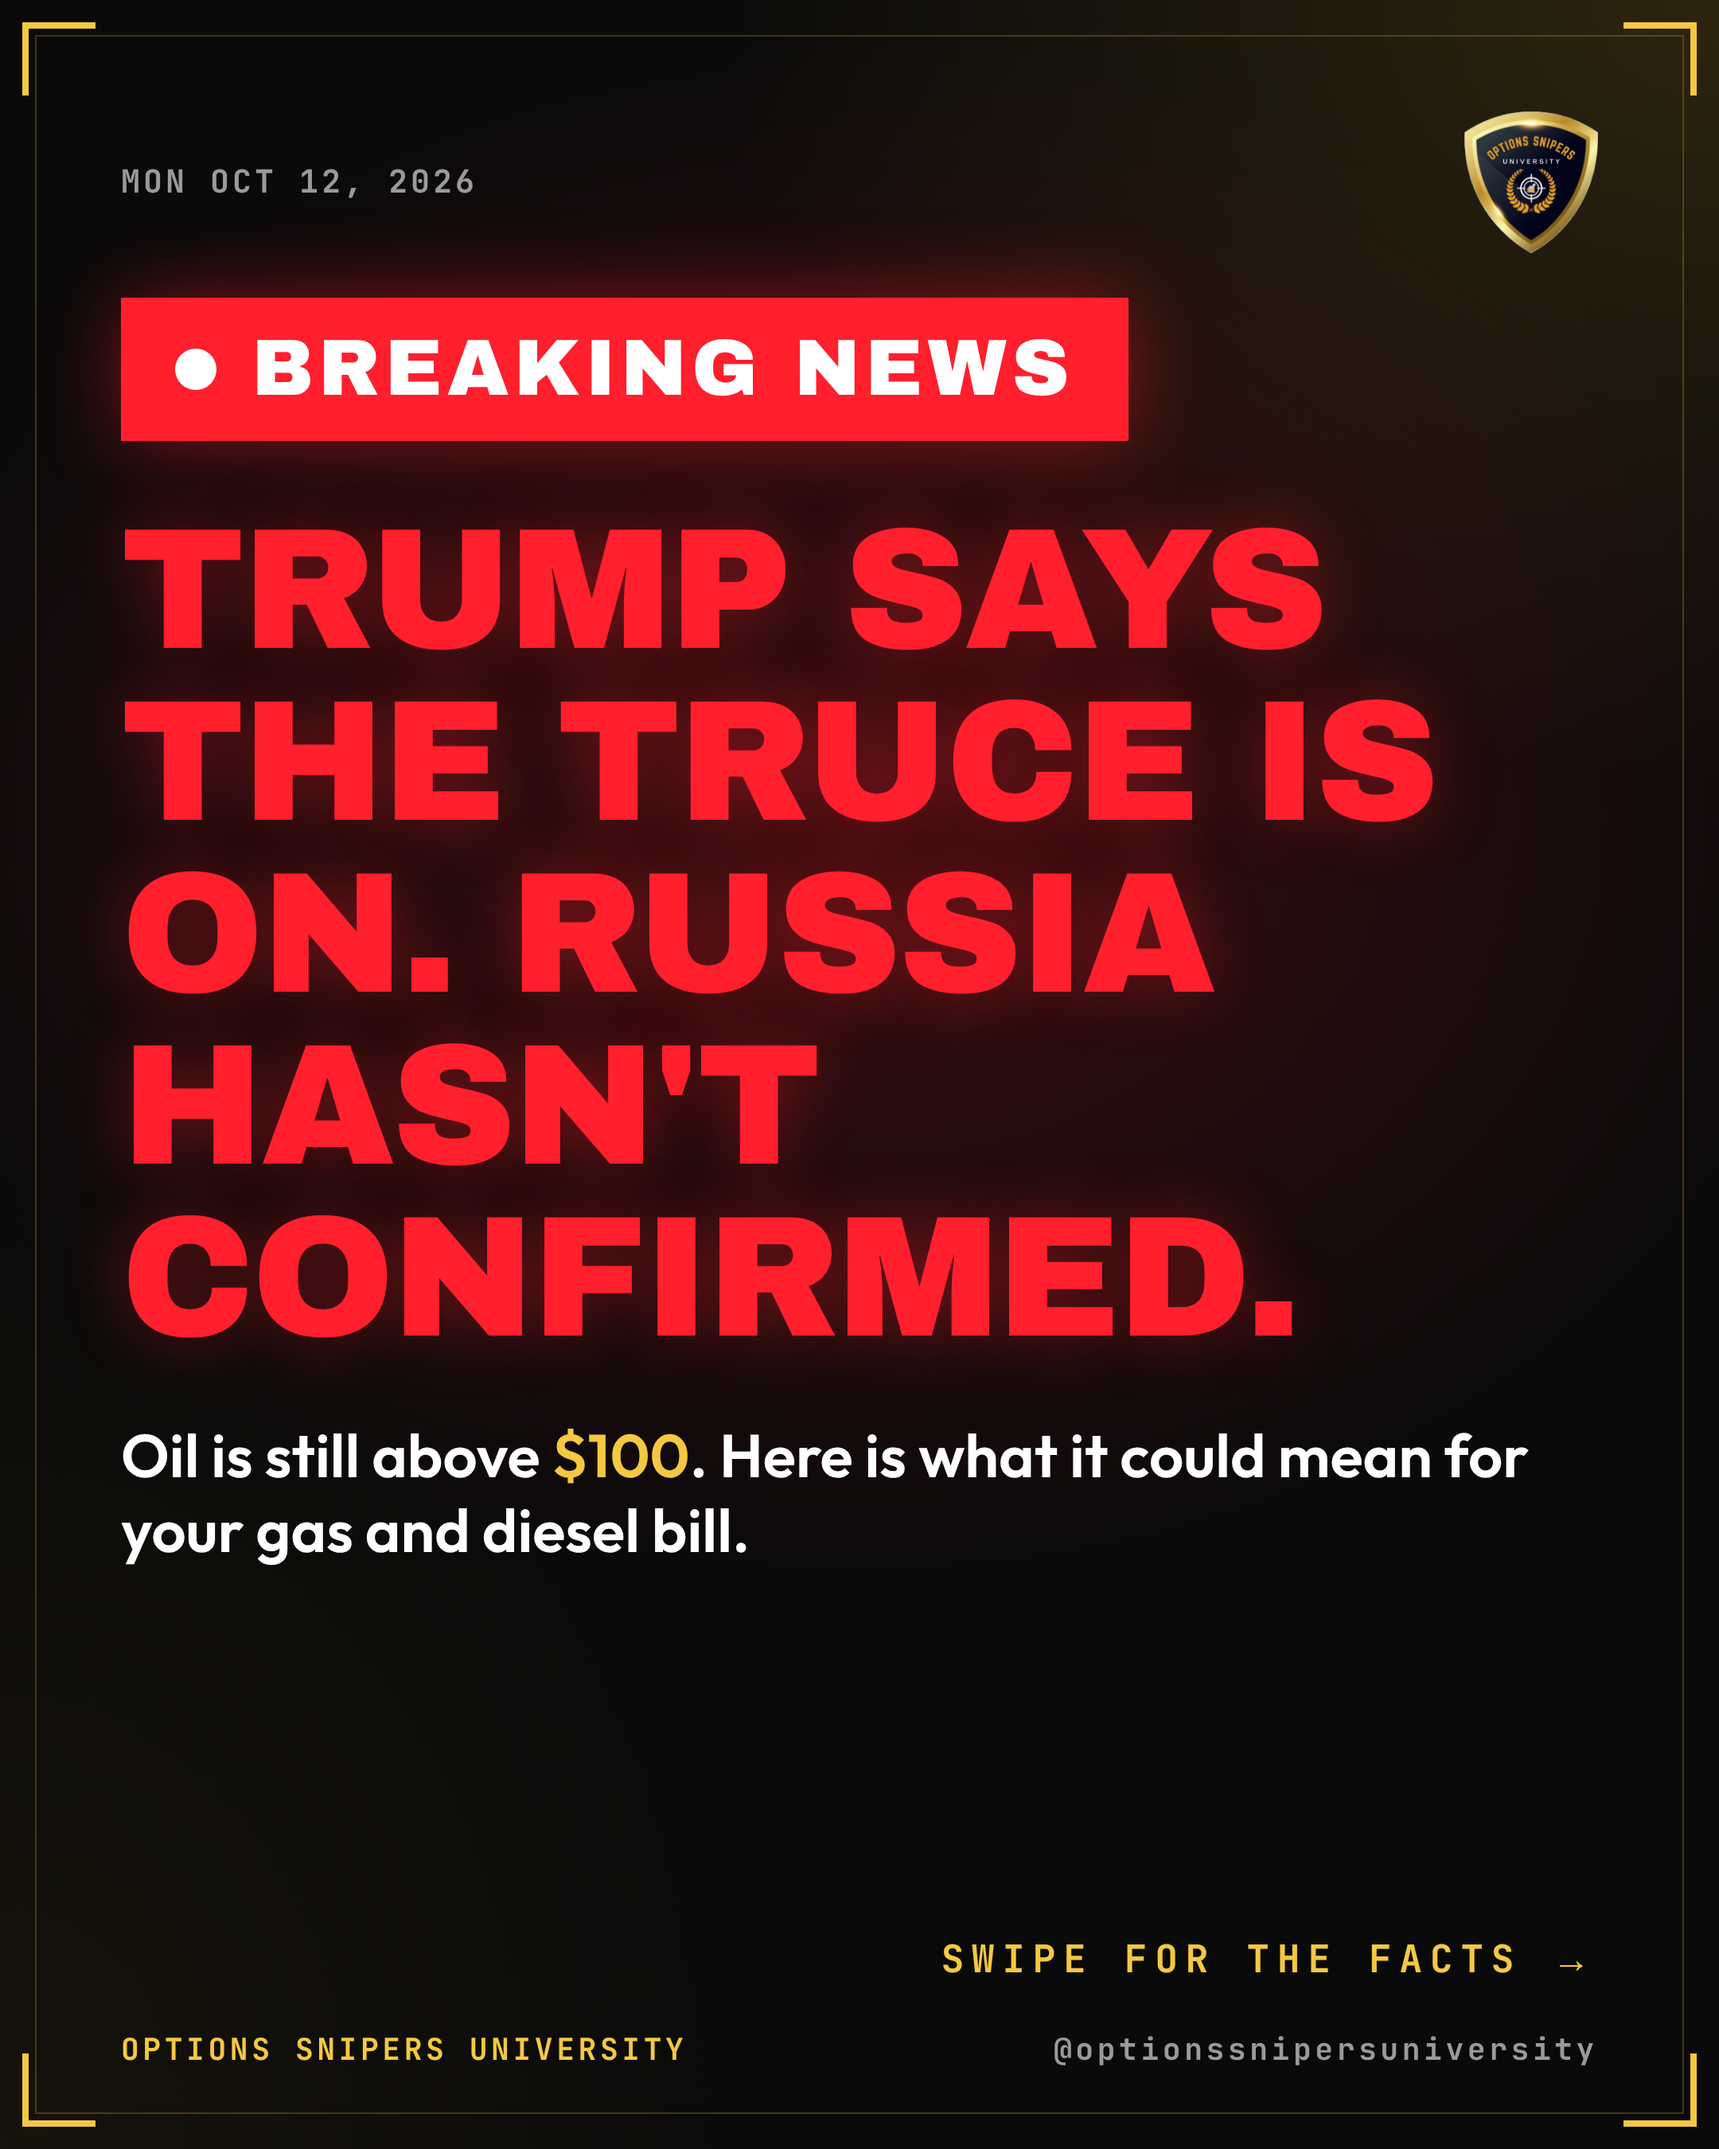
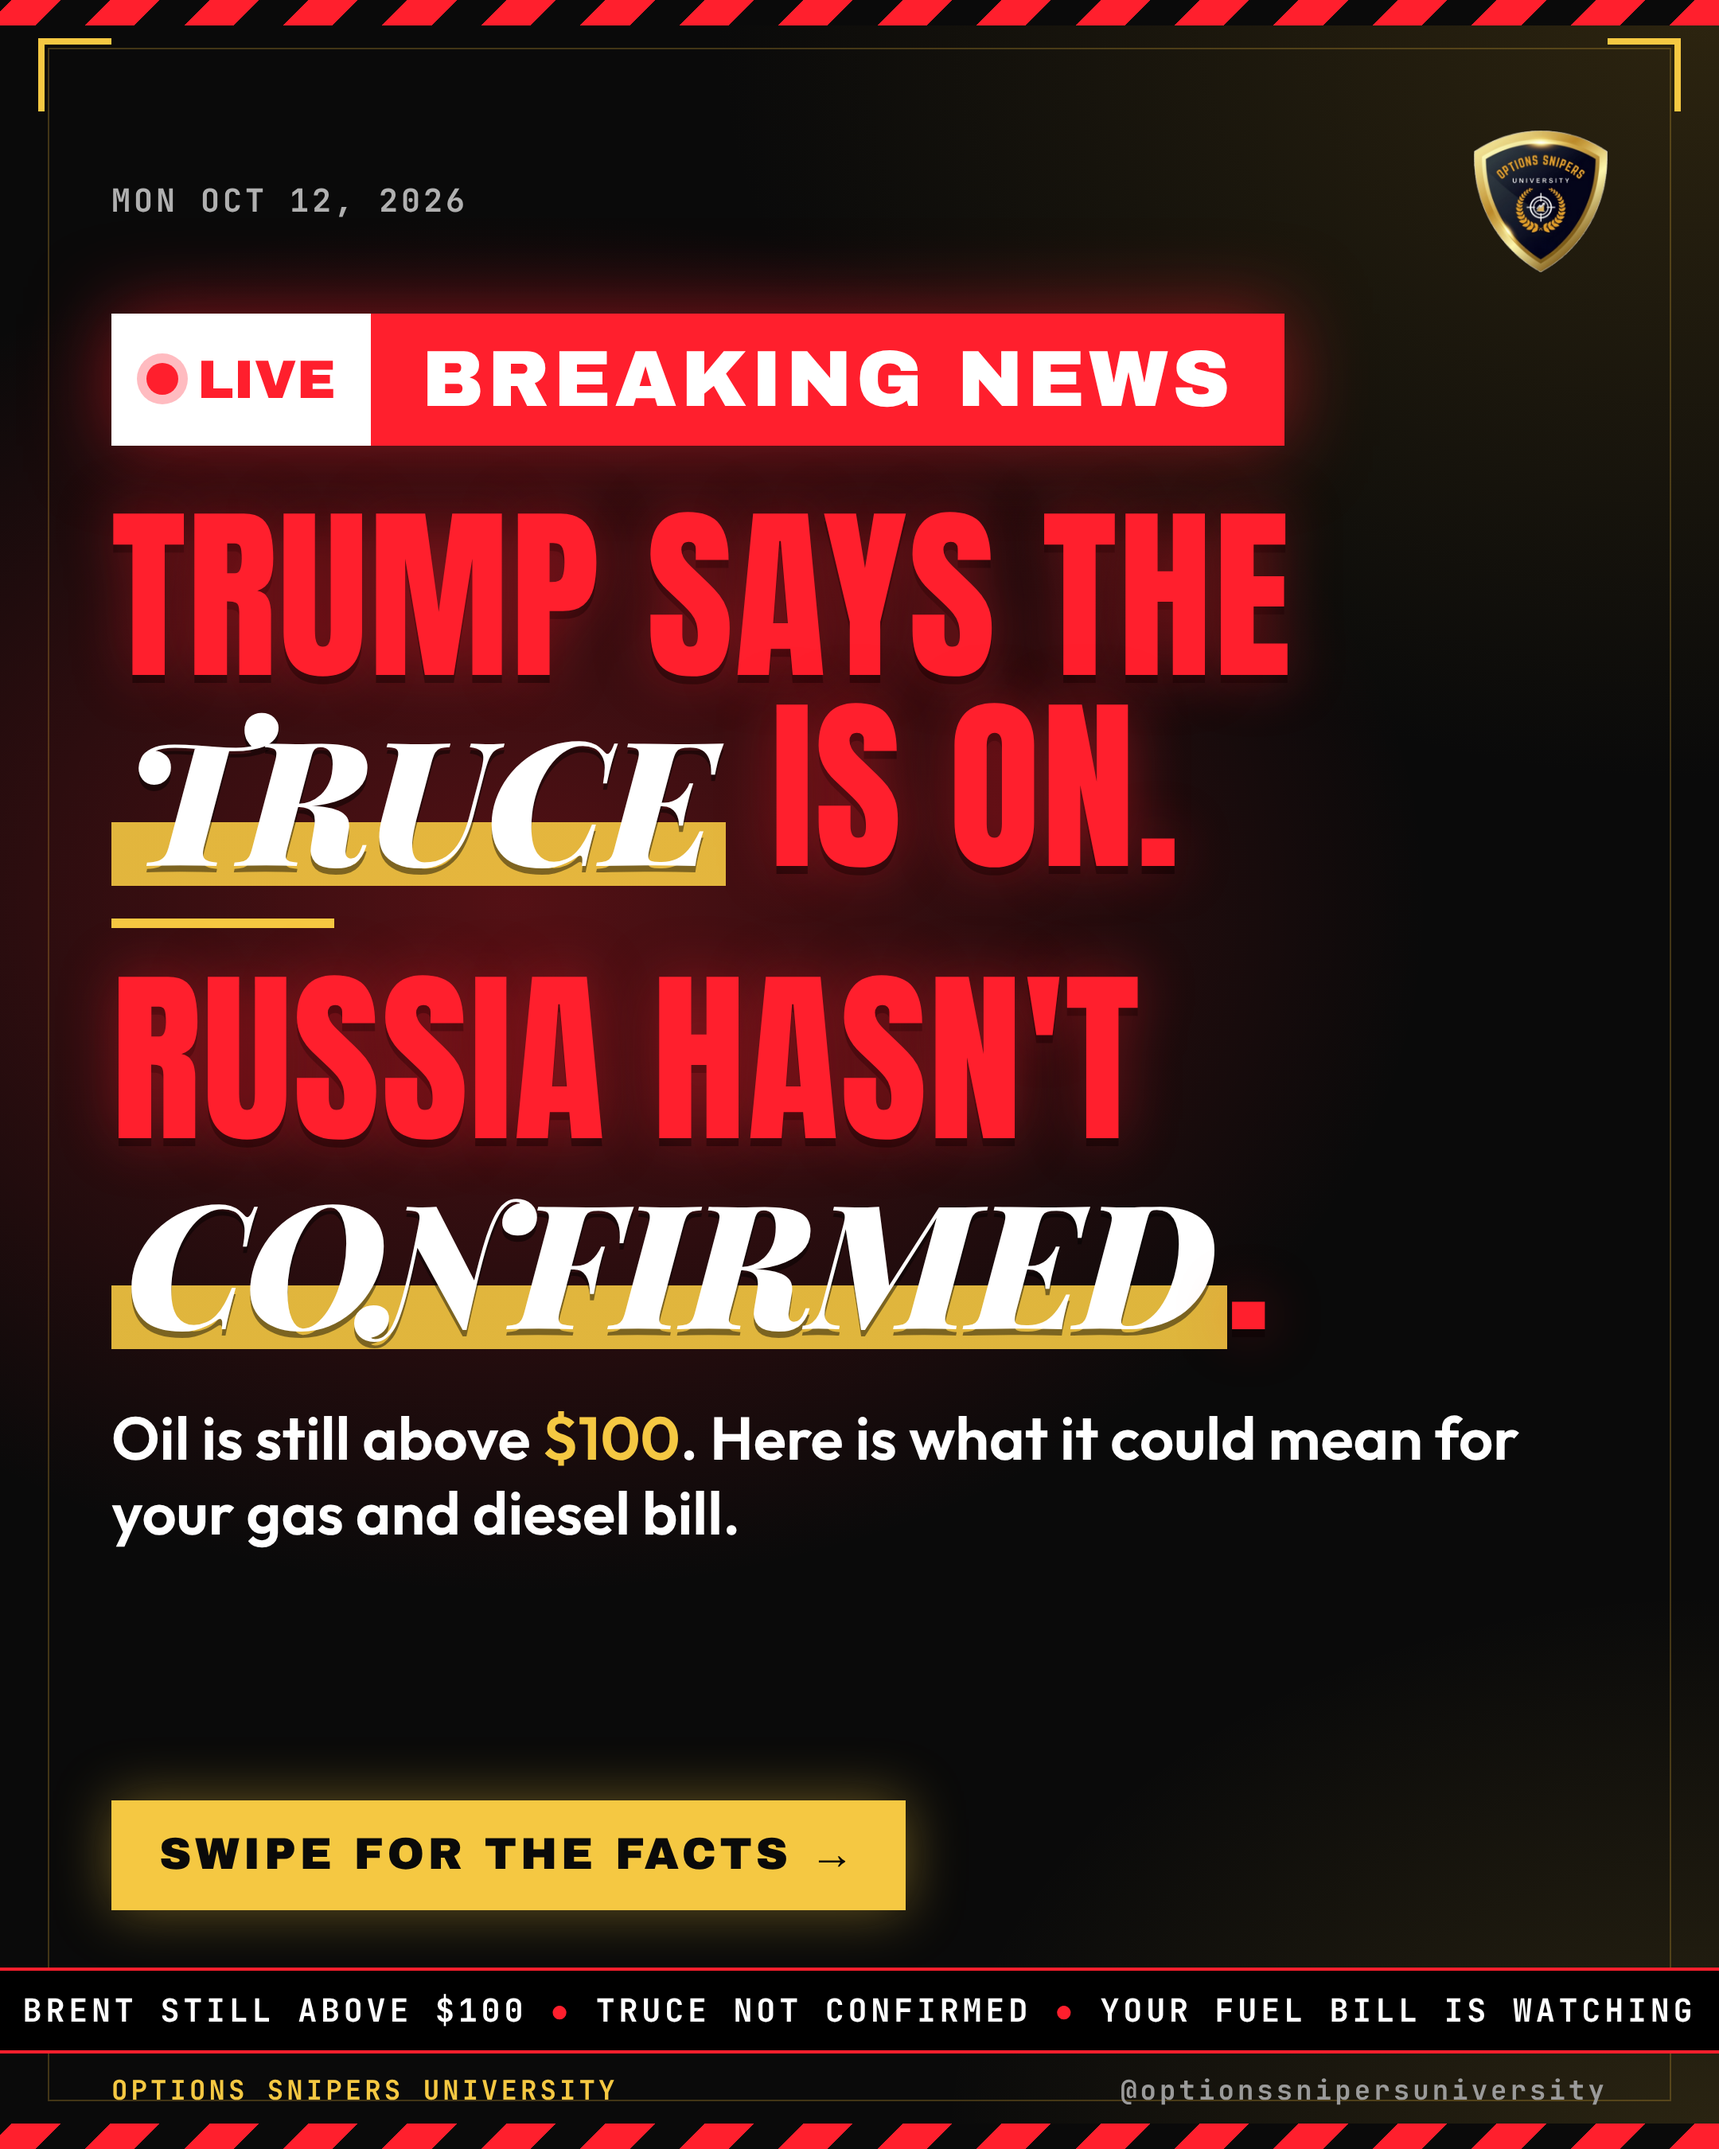
More appealing breaking-news title slide (Anton + serif-italic accents, sentence per line, ticker)
Claude-Session: https://claude.ai/code/session_012DhwV1wDpUFY4nLrHpG3RH

diff --git a/news-kit/title.html b/news-kit/title.html
@@ -1,44 +1,61 @@
 <!DOCTYPE html><html><head><meta charset="utf-8"><title>Title</title>
 <style>
 @font-face{font-family:'Archivo Black';src:url(fonts/archivo-black-latin-400-normal.woff2)}
-@font-face{font-family:'Outfit';font-weight:400;src:url(fonts/outfit-latin-400-normal.woff2)}
+@font-face{font-family:'Anton';src:url(fonts/anton-latin-400-normal.woff2)}
+@font-face{font-family:'Playfair Display';font-weight:900;font-style:italic;src:url(fonts/playfair-display-latin-900-italic.woff2)}
 @font-face{font-family:'Outfit';font-weight:600;src:url(fonts/outfit-latin-600-normal.woff2)}
 @font-face{font-family:'JetBrains Mono';font-weight:700;src:url(fonts/jetbrains-mono-latin-700-normal.woff2)}
 :root{--bg:#0A0A0A;--gold:#F5C842;--red:#FF1F2D}
 *{margin:0;padding:0;box-sizing:border-box}
 html,body{background:var(--bg);width:1080px;height:1350px;overflow:hidden}
-body{position:relative;padding:70px 76px 0;color:#fff;
- background:radial-gradient(ellipse 900px 700px at 50% 38%,rgba(255,31,45,.20),transparent 70%),radial-gradient(ellipse 900px 700px at 100% 0%,rgba(60,48,18,.7),transparent 70%),radial-gradient(ellipse 700px 900px at 0% 100%,rgba(28,24,12,.6),transparent 70%),var(--bg)}
-.frame{position:absolute;inset:22px;border:1px solid rgba(212,164,55,.28)}
+body{position:relative;padding:64px 70px 0;color:#fff;
+ background:radial-gradient(ellipse 820px 620px at 30% 42%,rgba(255,31,45,.30),transparent 70%),radial-gradient(ellipse 700px 500px at 100% 100%,rgba(245,200,66,.14),transparent 70%),radial-gradient(ellipse 900px 700px at 100% 0%,rgba(60,48,18,.7),transparent 70%),var(--bg)}
+.stripes{position:absolute;left:0;right:0;top:0;height:16px;background:repeating-linear-gradient(-45deg,var(--red) 0 22px,#0A0A0A 22px 44px)}
+.stripes.b{top:auto;bottom:0}
+.frame{position:absolute;inset:30px;border:1px solid rgba(212,164,55,.28)}
 .c{position:absolute;width:46px;height:46px;border:4px solid var(--gold)}
-.tl{top:14px;left:14px;border-right:0;border-bottom:0}.tr{top:14px;right:14px;border-left:0;border-bottom:0}
-.bl{bottom:14px;left:14px;border-right:0;border-top:0}.br{bottom:14px;right:14px;border-left:0;border-top:0}
-.top{display:flex;justify-content:space-between;align-items:center}
-.date{font-family:'JetBrains Mono';font-weight:700;font-size:20px;color:#9a9a9a;letter-spacing:.1em}
+.tl{top:24px;left:24px;border-right:0;border-bottom:0}.tr{top:24px;right:24px;border-left:0;border-bottom:0}
+.bl{bottom:60px;left:24px;border-right:0;border-top:0}.br{bottom:60px;right:24px;border-left:0;border-top:0}
+.top{display:flex;justify-content:space-between;align-items:center;margin-top:18px}
+.date{font-family:'JetBrains Mono';font-weight:700;font-size:20px;color:#b0b0b0;letter-spacing:.1em}
 .shield{width:84px}
-.brk{margin-top:28px;display:flex;align-items:center;gap:22px;background:var(--red);padding:20px 34px;width:max-content;box-shadow:0 0 50px rgba(255,31,45,.45)}
-.dot{width:26px;height:26px;border-radius:50%;background:#fff}
-.brk span{font-family:'Archivo Black';font-size:50px;letter-spacing:.06em;line-height:1}
-h1{font-family:'Archivo Black';font-weight:400;font-size:108px;line-height:1;color:var(--red);margin-top:40px;letter-spacing:-2px;text-transform:uppercase;text-shadow:0 0 40px rgba(255,31,45,.35)}
-.sub{font-family:'Outfit';font-weight:600;font-size:38px;line-height:1.25;color:#fff;margin-top:34px}
+.brk{margin-top:26px;display:flex;align-items:stretch;width:max-content;box-shadow:0 0 50px rgba(255,31,45,.5)}
+.brk .live{background:#fff;color:var(--red);font-family:'Archivo Black';font-size:34px;padding:16px 22px;display:flex;align-items:center;gap:12px}
+.brk .live i{width:20px;height:20px;border-radius:50%;background:var(--red);display:block;box-shadow:0 0 0 6px rgba(255,31,45,.3)}
+.brk .t{background:var(--red);font-family:'Archivo Black';font-size:50px;letter-spacing:.05em;padding:14px 32px;line-height:1.1}
+.hl{margin-top:34px;position:relative}
+.s{font-family:'Anton';font-size:118px;line-height:1.02;color:var(--red);text-transform:uppercase;letter-spacing:1px;text-shadow:0 0 36px rgba(255,31,45,.4),0 5px 0 rgba(0,0,0,.5)}
+.s em{font-family:'Playfair Display';font-style:italic;font-weight:900;color:#fff;text-transform:uppercase;letter-spacing:-2px;font-size:.92em;padding:0 .08em;background:linear-gradient(transparent 62%,rgba(245,200,66,.9) 62% 90%,transparent 90%);text-shadow:0 4px 0 rgba(0,0,0,.45)}
+.sep{height:6px;width:140px;background:var(--gold);margin:22px 0 22px}
+.sub{font-family:'Outfit';font-weight:600;font-size:38px;line-height:1.25;color:#fff;margin-top:34px;max-width:900px}
 .sub b{color:var(--gold)}
-.swipe{position:absolute;left:76px;right:76px;bottom:104px;font-family:'JetBrains Mono';font-weight:700;font-size:24px;letter-spacing:.2em;color:var(--gold);text-align:right}
-.foot{position:absolute;left:76px;right:76px;bottom:50px;display:flex;justify-content:space-between;font-family:'JetBrains Mono';font-weight:700;font-size:19px;letter-spacing:.12em}
+.swipe{position:absolute;left:70px;bottom:150px;background:var(--gold);color:#0A0A0A;font-family:'Archivo Black';font-size:28px;letter-spacing:.08em;padding:18px 30px;box-shadow:0 0 36px rgba(245,200,66,.4)}
+.ticker{position:absolute;left:0;right:0;bottom:60px;background:#000;border-top:2px solid var(--red);border-bottom:2px solid var(--red);padding:12px 0;font-family:'JetBrains Mono';font-weight:700;font-size:20px;letter-spacing:.12em;color:#fff;white-space:nowrap;overflow:hidden;text-align:center}
+.ticker b{color:var(--red)}
+.foot{position:absolute;left:70px;right:70px;bottom:26px;display:flex;justify-content:space-between;font-family:'JetBrains Mono';font-weight:700;font-size:17px;letter-spacing:.12em}
 .foot b{color:var(--gold)}.foot span{color:#9a9a9a}
 </style></head><body>
+<div class="stripes"></div><div class="stripes b"></div>
 <div class="frame"></div><div class="c tl"></div><div class="c tr"></div><div class="c bl"></div><div class="c br"></div>
 <div class="top"><div class="date" id="date"></div><img class="shield" src="logos/OSU.png" alt=""></div>
-<div class="brk"><div class="dot"></div><span>BREAKING NEWS</span></div>
-<h1 id="h"></h1>
+<div class="brk"><div class="live"><i></i>LIVE</div><div class="t">BREAKING NEWS</div></div>
+<div class="hl" id="hl"></div>
 <div class="sub" id="sub"></div>
 <div class="swipe">SWIPE FOR THE FACTS &rarr;</div>
+<div class="ticker" id="ticker"></div>
 <div class="foot"><b>OPTIONS SNIPERS UNIVERSITY</b><span>@optionssnipersuniversity</span></div>
 <script>
-/* DAILY EDIT BLOCK for the title slide. Keep h to about 8-10 words max (122px font). Must be true and match the sources. */
+/* DAILY EDIT BLOCK for the title slide.
+   lines: 2 SENTENCES (each starts on its own line), ALL CAPS, about 3-6 words each. Wrap the 1-2 most important words of each sentence in *asterisks*: they switch to the white italic serif font with a gold highlight.
+   ticker: 2-3 short verified facts separated by " | ". sub: one line, wrap the key number in <b>. Everything must be true to the sources. */
 const T={
  date:"MON OCT 12, 2026",
- h:"TRUMP SAYS THE TRUCE IS ON. RUSSIA HASN'T CONFIRMED.",
+ lines:["TRUMP SAYS THE *TRUCE* IS ON.","RUSSIA HASN'T *CONFIRMED*."],
+ ticker:"BRENT STILL ABOVE $100 | TRUCE NOT CONFIRMED | YOUR FUEL BILL IS WATCHING",
  sub:"Oil is still above <b>$100</b>. Here is what it could mean for your gas and diesel bill."
 };
-date.textContent=T.date;h.textContent=T.h;sub.innerHTML=T.sub;
+date.textContent=T.date;
+hl.innerHTML=T.lines.map(l=>'<div class="s">'+l.replace(/\*(.+?)\*/g,'<em>$1</em>')+'</div>').join('<div class="sep"></div>');
+sub.innerHTML=T.sub;
+ticker.innerHTML=T.ticker.split(' | ').map(x=>x).join(' <b>&#9679;</b> ');
 </script></body></html>
